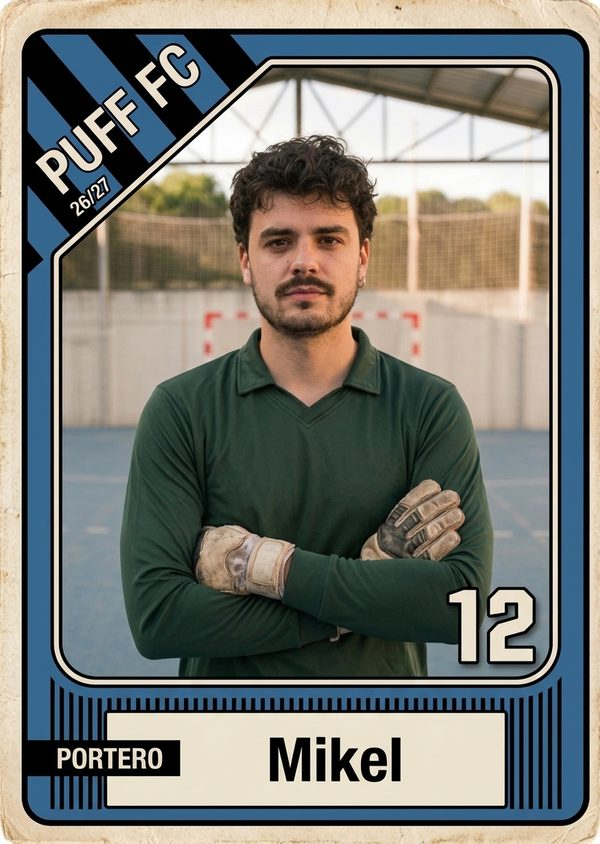
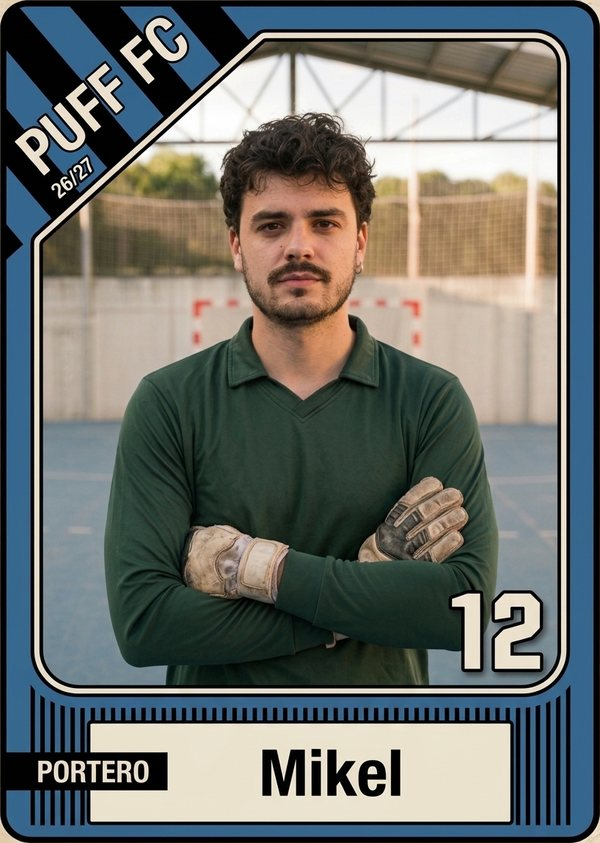
Cromos sin el reborde blanco y enteros en la ficha
Claude-Session: https://claude.ai/code/session_014PoK5o7dCwy8scvQufdsyj

diff --git a/index.html b/index.html
@@ -181,11 +181,11 @@ table.rank tr.lider td{font-weight:700}
 .casilla.sel{background:var(--azul);color:#fff}.casilla.sel .cas-num{color:#fff}
 .ficha-top{display:grid;grid-template-columns:minmax(0,190px) minmax(0,1fr);gap:16px;align-items:end;margin-bottom:6px}
 .ficha-top>div{min-width:0}
-.cromo-recorte{position:relative;aspect-ratio:600/580;overflow:hidden;border-radius:12px;box-shadow:0 6px 18px rgba(0,0,0,.18);cursor:zoom-in;-webkit-touch-callout:none;-webkit-user-select:none;user-select:none;touch-action:manipulation}
-.cromo-ficha{position:absolute;left:0;top:0;width:100%;height:auto;display:block;transform:translateY(-10%);-webkit-user-drag:none;pointer-events:none}
+.cromo-recorte{position:relative;overflow:hidden;border-radius:4%/3%;box-shadow:0 6px 18px rgba(0,0,0,.18);cursor:zoom-in;-webkit-touch-callout:none;-webkit-user-select:none;user-select:none;touch-action:manipulation}
+.cromo-ficha{width:100%;height:auto;display:block;-webkit-user-drag:none;pointer-events:none}
 #visor{position:fixed;inset:0;z-index:50;background:rgba(8,12,20,.88);display:none;flex-direction:column;align-items:center;justify-content:center;gap:12px;padding:max(20px,env(safe-area-inset-top)) 20px max(20px,env(safe-area-inset-bottom));-webkit-backdrop-filter:blur(6px);backdrop-filter:blur(6px)}
 #visor.ver{display:flex}
-#visor img{max-width:min(92vw,520px);max-height:80vh;width:auto;height:auto;border-radius:14px;box-shadow:0 18px 50px rgba(0,0,0,.5)}
+#visor img{max-width:min(92vw,520px);max-height:80vh;width:auto;height:auto;border-radius:4%/3%;box-shadow:0 18px 50px rgba(0,0,0,.5)}
 #visor p{color:#c9d3e3;font-size:13px;margin:0}
 @media (max-width:520px){.ficha-top{grid-template-columns:minmax(0,46%) minmax(0,1fr);gap:12px}}
 .cromo.con-img{padding:0;border:0;background:#dfe6f1;overflow:hidden;box-shadow:0 2px 6px rgba(0,0,0,.18)}

diff --git a/sw.js b/sw.js
@@ -1,6 +1,6 @@
 // Puff FC: modo sin conexión. La versión cambia en cada publicación.
 importScripts("https://cdn.onesignal.com/sdks/web/v16/OneSignalSDK.sw.js"); // avisos (OneSignal)
-const V="puff-20261126-191509";
+const V="puff-20261126-191720";
 const BASE=["./","index.html","manifest.webmanifest","icons/icon-192.png","icons/icon-512.png","icons/icon-180.png","icons/icon-32.png"];
 self.addEventListener("install",e=>{e.waitUntil(caches.open(V).then(c=>c.addAll(BASE)).then(()=>self.skipWaiting()))});
 self.addEventListener("activate",e=>{e.waitUntil(caches.keys().then(ks=>Promise.all(ks.filter(k=>k!==V).map(k=>caches.delete(k)))).then(()=>self.clients.claim()))});
